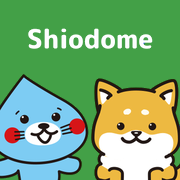
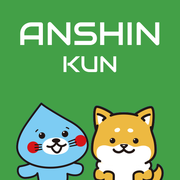
HOMEタイトルを「ANSHIN KUN」ロゴ（Audiowide）に変更、ホーム画面アイコンと名前も差し替え
Claude-Session: https://claude.ai/code/session_01QNFPQtZSHsi4TycELh4dJJ

diff --git a/index.html b/index.html
@@ -4,7 +4,7 @@
 <meta charset="utf-8">
 <meta name="viewport" content="width=device-width, initial-scale=1, viewport-fit=cover">
 <title>職員ダッシュボード｜しおどめグループ</title>
-<!-- ホーム画面アイコン（2026-09-29）。manifestは使わない（?garden= 付きのURLのまま追加されるように） -->
+<!-- ホーム画面アイコン（2026-09-29、2026-10-28に「ANSHIN KUN」へ差し替え）。manifestは使わない（?garden= 付きのURLのまま追加されるように） -->
 <link rel="apple-touch-icon" href="icons/apple-touch-icon.png">
 <link rel="icon" type="image/png" sizes="192x192" href="icons/icon-192.png">
 <link rel="icon" type="image/png" sizes="32x32" href="icons/favicon-32.png">
@@ -26,11 +26,11 @@
   }catch(e){}
 })();
 </script>
-<meta name="apple-mobile-web-app-title" content="しおどめ">
-<meta name="application-name" content="しおどめ">
+<meta name="apple-mobile-web-app-title" content="ANSHIN KUN">
+<meta name="application-name" content="ANSHIN KUN">
 <link rel="preconnect" href="https://fonts.googleapis.com">
 <link rel="preconnect" href="https://fonts.gstatic.com" crossorigin>
-<link href="https://fonts.googleapis.com/css2?family=M+PLUS+Rounded+1c:wght@500;700;800&display=swap" rel="stylesheet">
+<link href="https://fonts.googleapis.com/css2?family=Audiowide&family=M+PLUS+Rounded+1c:wght@500;700;800&display=swap" rel="stylesheet">
 <style>
 :root{
   --ink:#2b2a28; --ink-soft:#6f6a62; --line:#e7e2d9; --paper:#f4f1ec; --card:#ffffff;
@@ -62,6 +62,13 @@ header.topbar{position:sticky;top:0;z-index:20;background:var(--law);color:#fff;
   padding:calc(env(safe-area-inset-top,0px) + 15px) 16px 15px;}
 .tb-title{flex:1;min-width:0;font-size:19px;font-weight:800;color:#fff;letter-spacing:.01em;
   white-space:nowrap;overflow:hidden;text-overflow:ellipsis;}
+/* HOMEタイトルのロゴ「ANSHIN KUN」（Audiowide、2026-10-28）
+   ・ANSHINを大きく、KUNを小さく、キャラクターの足元に文字の下端をそろえる */
+.brand-logo{font-family:"Audiowide",sans-serif;font-weight:400;font-size:24px;letter-spacing:.02em;
+  line-height:1;white-space:nowrap;display:block;position:relative;top:4px;}
+#brandtxt:has(.brand-logo){align-self:stretch;display:flex;align-items:flex-end;overflow:visible;}
+.brand-logo small{font-size:.62em;letter-spacing:.04em;margin-left:.06em;}
+
 .tb-mascot{height:38px;width:auto;flex:0 0 auto;display:block;}
 .tb-home{flex:0 0 auto;display:none;align-items:center;gap:5px;border:1.5px solid rgba(255,255,255,.8);
   background:transparent;color:#fff;font-size:12.5px;font-weight:800;padding:6px 12px 6px 9px;
@@ -1082,7 +1089,7 @@ html.law-y .pin-box:focus,html.law-y .pg-text:focus{border-color:#43a047;box-sha
 <div class="wrap">
   <header class="topbar">
     <img class="tb-mascot" id="brandmascot" src="" alt="">
-    <div class="tb-title" id="brandtxt">職員ダッシュボード</div>
+    <div class="tb-title" id="brandtxt" aria-label="ANSHIN KUN"><span class="brand-logo">ANSHIN<small>KUN</small></span></div>
     <button class="tb-home" id="homebtn" onclick="goHome()" aria-label="ホームに戻る">
       <svg viewBox="0 0 24 24" fill="none" stroke="currentColor" stroke-width="2" stroke-linecap="round" stroke-linejoin="round">
         <path d="M4 11L12 4L20 11"></path>
@@ -7215,7 +7222,7 @@ function show(name){
   document.getElementById('brandmascot').style.display=(name==="home")?"":"none";
   window.scrollTo({top:0});
 }
-function goHome(){document.getElementById('brandtxt').textContent='職員ダッシュボード';show("home");if(typeof omCheckPending==='function')omCheckPending();}
+function goHome(){document.getElementById('brandtxt').innerHTML='<span class="brand-logo">ANSHIN<small>KUN</small></span>';show("home");if(typeof omCheckPending==='function')omCheckPending();}
 function goShift(){document.getElementById('brandtxt').textContent='シフト管理';renderShift();show("shift");}
 function goStub(title,icon,tint){
   document.getElementById('brandtxt').textContent=title;
